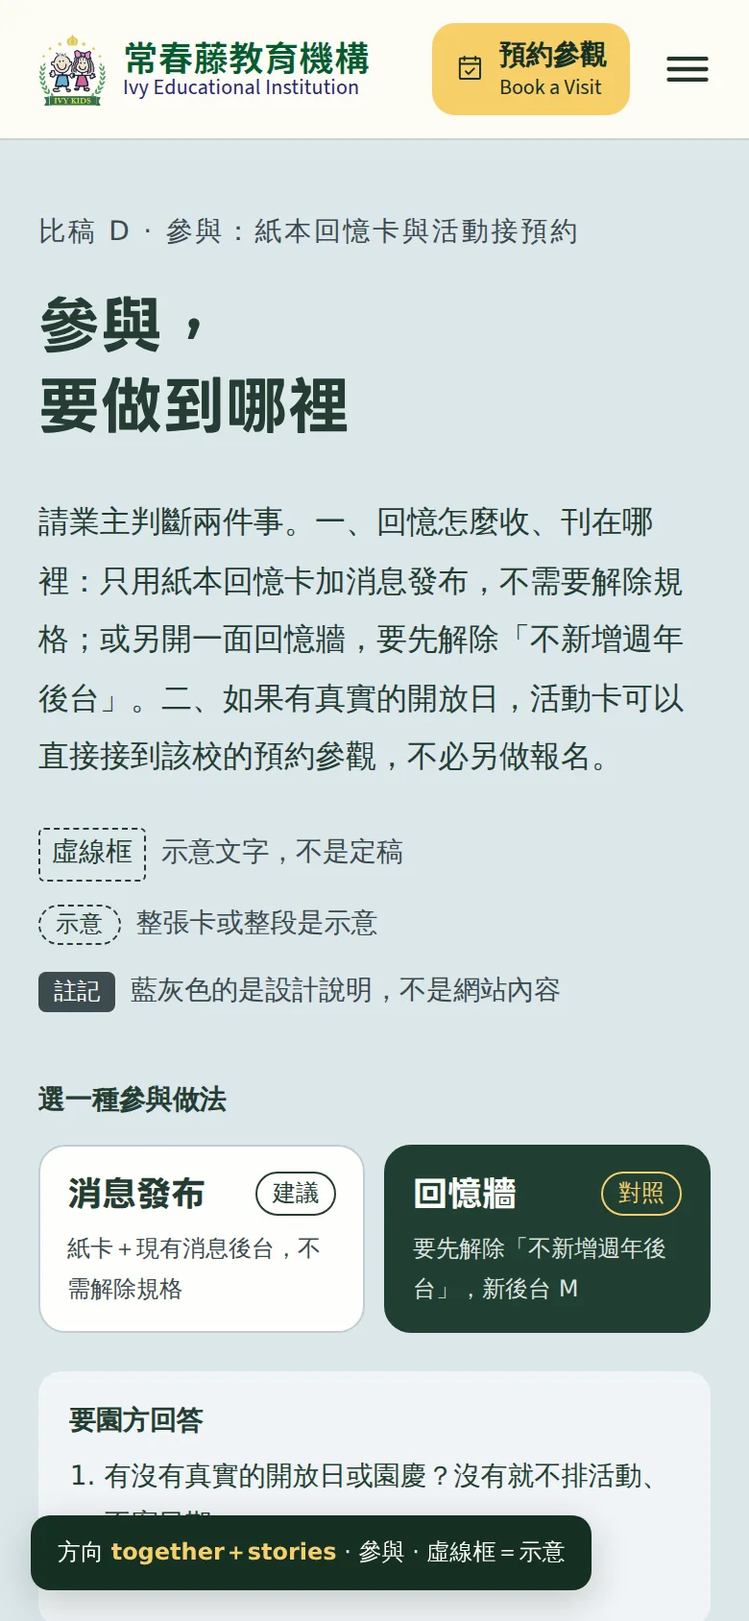
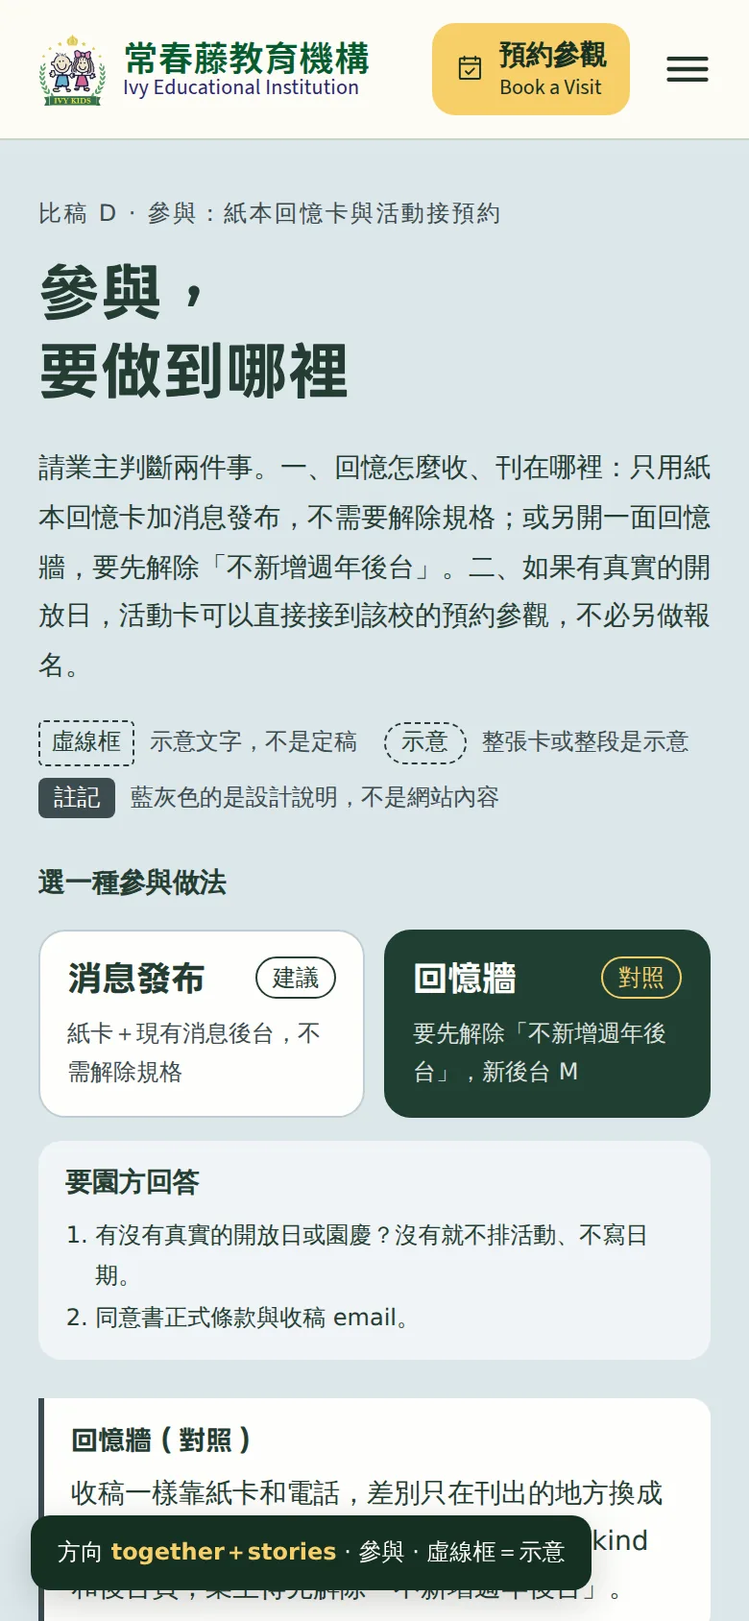
wip(design): 30 週年 mock D／E 建置中快照（額度中斷前）
Claude-Session: https://claude.ai/code/session_01PHGW5a4vWQqf2AJpMiZ2oK

diff --git a/design/anniversary-website-directions-20260928/d-events-booking.html b/design/anniversary-website-directions-20260928/d-events-booking.html
@@ -4,7 +4,7 @@
 <meta charset="utf-8">
 <meta name="viewport" content="width=device-width, initial-scale=1">
 <title>回憶卡與活動預約</title>
-<meta name="description" content="30 週年比稿 D：參與要做到哪裡——紙本回憶卡加消息發布，或另開一面回憶牆；真實開放日直接接回該校的預約參觀。">
+<meta name="description" content="週年比稿 D：參與要做到哪裡——紙本回憶卡加消息發布，或另開一面回憶牆；真實開放日直接接回該校的預約參觀。">
 <script>
   // 依 ?v= 決定畫哪一種參與做法；沒帶或帶錯就用建議的「消息發布」（news）。
   (function () {
@@ -117,12 +117,11 @@
         <details class="notes">
           <summary>現行限制與建議做法</summary>
           <dl class="note-list">
-            <div><dt>現行</dt><dd>活動只有一個 <code>link_url</code>，只收 http(s) 絕對網址（backend <code>schemas.py:731-734</code>），指不到站內的 <code>/visit/minghua</code>，卡上只能放「活動詳情 ↗」。</dd></div>
-            <div><dt>建議</dt><dd>活動加 <code>visit_campus_key</code>（空白或五校 key 之一；JSON 欄位，不需 migration，要重產契約）。卡內直接放既有 <code>BookingCta</code>，依該校的預約模式自動變成表單、LINE、電話或暫停；這裡畫的是表單模式。</dd></div>
-            <div><dt>字句</dt><dd>主按鈕沿用分校頁的「預約參觀{校名}」（<code>CampusPageMain.vue:24</code>）；次按鈕沿用預約頁的「致電{校名}」（<code>VisitForm.vue:388</code>）。</dd></div>
-            <div><dt>語意</dt><dd>送出只叫「已收到需求」，人工確認時段是「待確認」，園方確認後才叫「預約成立」。不做 RSVP、報名、付款，活動卡上也不收家長的聯絡方式。</dd></div>
-            <div><dt>追蹤</dt><dd>外層 <code>data-cta-entry</code> 設為 <code>anniversary</code>，要一起改 web（<code>cta-analytics.ts:10-28</code>）、backend（<code>operations/models.py:39-57</code>）、admin（<code>labels.ts:883</code>）三處。</dd></div>
-            <div><dt>工時</dt><dd>S，約 1 人日。只在園方確認有真實開放日時才做；在那之前，活動只列時間、地點和「洽各校」電話。沒有真活動就不排、不寫日期、不倒數。</dd></div>
+            <div><dt>現行</dt><dd><code>link_url</code> 只收 http(s) 絕對網址（<code>schemas.py:731-734</code>），指不到站內 <code>/visit/minghua</code>，只能放「活動詳情 ↗」。</dd></div>
+            <div><dt>建議</dt><dd>活動加 <code>visit_campus_key</code>（JSON 欄位，不需 migration），卡內放既有 <code>BookingCta</code>，依該校預約模式變成表單、LINE、電話或暫停。</dd></div>
+            <div><dt>字句</dt><dd>按鈕沿用分校頁的「預約參觀{校名}」和預約頁的「致電{校名}」。</dd></div>
+            <div><dt>語意</dt><dd>送出只叫「已收到需求」，園方確認後才叫「預約成立」。不做 RSVP、報名、付款。</dd></div>
+            <div><dt>工時</dt><dd>S，約 1 人日（含 CTA 入口 <code>anniversary</code> 三處、重產契約）。沒有真實開放日就不做、不排、不寫日期。</dd></div>
           </dl>
         </details>
       </div>
@@ -146,7 +145,7 @@
                 <figcaption><span class="ph">封面：回憶卡印好後拍實物照，這裡先用插圖代替</span><span class="tag">示意</span></figcaption>
               </figure>
               <div class="hn-body">
-                <p class="hn-body-lead"><span class="ph">在常春藤度過一段日子的孩子、陪孩子來上學的家長、在這裡教過書的老師，都歡迎把記得的事告訴我們。</span></p>
+                <p class="ph hn-body-lead">在常春藤度過一段日子的孩子、陪孩子來上學的家長、在這裡教過書的老師，都歡迎把記得的事告訴我們。</p>
                 <h3><span class="ph">兩種參與方式</span></h3>
                 <ol class="ways">
                   <li>
@@ -155,7 +154,7 @@
                   </li>
                   <li>
                     <p class="way-title"><svg class="icon" aria-hidden="true" focusable="false"><use href="#i-phone" /></svg><b class="ph">打電話請老師記下來</b></p>
-                    <p><span class="ph">打到任一校，老師把你說的記在回憶卡上，再念一次給你確認。</span></p>
+                    <p class="ph">打到任一校，老師把你說的記在回憶卡上，再念一次給你確認。</p>
                   </li>
                 </ol>
                 <h3><span class="ph">五校電話</span></h3>
@@ -166,13 +165,13 @@
                   <li><a href="tel:07-370-8001"><img src="../../web/public/assets/responsive/tour-international-gate-3425c482c253-480.webp" width="480" height="300" alt=""><span class="tel-who"><b>國際校</b><small>鳥松區</small></span><span class="tel-num"><span class="sr-only">撥打電話 </span>07-370-8001</span><svg class="icon" aria-hidden="true" focusable="false"><use href="#i-phone" /></svg></a></li>
                   <li><a href="tel:07-375-7081"><img src="../../web/public/assets/responsive/tour-renwu-exterior-f5fe711defdc-480.webp" width="480" height="300" alt=""><span class="tel-who"><b>仁武校</b><small>仁武區</small></span><span class="tel-num"><span class="sr-only">撥打電話 </span>07-375-7081</span><svg class="icon" aria-hidden="true" focusable="false"><use href="#i-phone" /></svg></a></li>
                 </ul>
-                <p class="mail"><svg class="icon" aria-hidden="true" focusable="false"><use href="#i-envelope-simple" /></svg><span>或寄 email 到 <span class="blank" aria-label="待園方提供的 email"></span>（園方提供）<span class="tag">示意</span></span></p>
+                <p class="mail"><svg class="icon" aria-hidden="true" focusable="false"><use href="#i-envelope-simple" /></svg><span>或寄 email 到 <span class="blank" aria-hidden="true"></span><span class="sr-only">（空白）</span><span class="nw">（園方提供）</span><span class="tag">示意</span></span></p>
                 <div class="privacy">
                   <h3><span class="ph">隱私與撤下</span></h3>
-                  <ul>
-                    <li><span class="ph">回憶卡背面就是同意書，交回前請勾選。</span></li>
-                    <li><span class="ph">署名可以只寫稱謂，也可以選擇不放照片。</span></li>
-                    <li><span class="ph">刊出後想撤下，打電話給交卡的那一校。</span></li>
+                  <ul class="ph">
+                    <li>回憶卡背面就是同意書，交回前請勾選。</li>
+                    <li>署名可以只寫稱謂，也可以選擇不放照片。</li>
+                    <li>刊出後想撤下，打電話給交卡的那一校。</li>
                   </ul>
                   <p class="privacy-tag"><span class="tag">正式條款待園方提供，示意</span></p>
                 </div>
@@ -187,11 +186,11 @@
         <details class="notes">
           <summary>現在就能發，兩處要小改</summary>
           <dl class="note-list">
-            <div><dt>後台</dt><dd>消息分類是自由文字，填系列名（示意「常春藤的故事」）；<code>show_from</code> 依台北日期自動上架，不填 <code>show_until</code>。小編（EDITOR）只能送審。</dd></div>
-            <div><dt>管道</dt><dd>收稿只有三種：紙卡、五校各自的電話、園方提供的一個 email。不用義華的 LINE／FB（其他四校沒有，不能拿義華的代填）。</dd></div>
-            <div><dt>撥號列</dt><dd>消息內文的連結區塊只放行 http／https（<code>news-content.ts:84-87</code>），寫不出 <code>tel:</code>。要整列可點撥號，需要 web 小改（例如依分類在單篇頁自動帶五校電話）；不改就用純文字電話發，內容一樣。</dd></div>
-            <div><dt>縮圖</dt><dd>五列縮圖是各校現況照（校園探索素材），只幫家長認出「是哪一校」，不當回憶照片。</dd></div>
-            <div><dt>隱私</dt><dd>網站只放摘要，全文印在卡背，要園方定稿。EXIF／GPS 剝除上線之前，不收家長或校友的手機照片。</dd></div>
+            <div><dt>後台</dt><dd>分類填系列名（示意），<code>show_from</code> 依台北日期自動上架，不填 <code>show_until</code>。</dd></div>
+            <div><dt>管道</dt><dd>只收紙卡、五校各自的電話、園方提供的一個 email；不用義華的 LINE／FB。</dd></div>
+            <div><dt>撥號</dt><dd>內文連結只放行 http(s)（<code>news-content.ts:84-87</code>），整列可撥號要 web 小改；不改就用純文字電話發。</dd></div>
+            <div><dt>縮圖</dt><dd>各校現況照，只幫家長認出是哪一校，不當回憶照片。</dd></div>
+            <div><dt>隱私</dt><dd>網站放摘要、全文印在卡背。EXIF／GPS 剝除上線前，不收手機照片。</dd></div>
           </dl>
         </details>
       </div>
@@ -209,7 +208,7 @@
                 <div class="mc-head">
                   <svg class="mc-crest" viewBox="30 26 124 132" aria-hidden="true" focusable="false"><image href="../../web/public/assets/logo.webp" width="552" height="192" filter="url(#logo-colour-cutout)" /></svg>
                   <div class="mc-name"><p class="mc-title">常春藤回憶卡</p><p class="mc-motto">孩子的第一所學校，也是第二個家。</p></div>
-                  <p class="mc-no" lang="en">No.<span class="blank-s" aria-label="編號空白"></span></p>
+                  <p class="mc-no" lang="en">No.<span class="blank-s" aria-hidden="true"></span><span class="sr-only">（空白）</span></p>
                 </div>
                 <p class="mc-q"><span class="ph">你記得常春藤的哪一個角落？</span></p>
                 <div class="mc-lines" aria-hidden="true"><i></i><i></i><i></i><i></i></div>
@@ -221,14 +220,14 @@
               <div class="mc-face mc-back">
                 <div class="mc-head mc-head-back">
                   <p class="mc-title">同意書</p>
-                  <p class="mc-no" lang="en">No.<span class="blank-s" aria-label="編號空白"></span></p>
+                  <p class="mc-no" lang="en">No.<span class="blank-s" aria-hidden="true"></span><span class="sr-only">（空白）</span></p>
                 </div>
                 <dl class="mc-consent">
                   <div><dt>署名</dt><dd><span class="bx" aria-hidden="true"></span>寫我的名字<span class="bx" aria-hidden="true"></span>只寫稱謂</dd></div>
                   <div><dt>照片</dt><dd><span class="bx" aria-hidden="true"></span>放照片<span class="bx" aria-hidden="true"></span>不放照片</dd></div>
                   <div><dt>刊登</dt><dd><span class="bx" aria-hidden="true"></span>同意刊在官網</dd></div>
                   <div><dt>簽名</dt><dd class="sign"><span>簽名<span class="line" aria-hidden="true"></span></span><span>法定代理人簽名<span class="line" aria-hidden="true"></span></span></dd></div>
-                  <div><dt>編號</dt><dd>同意書編號 <span lang="en">No.</span><span class="blank-s" aria-label="編號空白"></span></dd></div>
+                  <div><dt>編號</dt><dd>同意書編號 <span lang="en">No.</span><span class="blank-s" aria-hidden="true"></span><span class="sr-only">（空白）</span></dd></div>
                 </dl>
                 <p class="mc-foot">刊出後想撤下，打電話給交卡的那一校。</p>
               </div>
@@ -260,20 +259,20 @@
               <h2 id="z4n-title" class="art-title"><span class="ph">明華校的回憶選輯</span></h2>
               <img class="np-cover" src="../../web/public/assets/responsive/tour-minghua-plaza-8a1a4737ba49-800.webp" srcset="../../web/public/assets/responsive/tour-minghua-plaza-8a1a4737ba49-480.webp 480w, ../../web/public/assets/responsive/tour-minghua-plaza-8a1a4737ba49-800.webp 800w, ../../web/public/assets/responsive/tour-minghua-plaza-8a1a4737ba49-1200.webp 1200w" sizes="(max-width: 760px) 100vw, 760px" width="1200" height="750" alt="紅磚校舍旁的戶外廣場，青綠色地面，角落有溜滑梯和一排兒童小汽車">
               <div class="hn-body">
-                <p class="hn-body-lead"><span class="ph">這一篇收的是明華校校友交回的回憶卡，每一則都經本人確認，只校對錯字。</span></p>
+                <p class="ph hn-body-lead">這一篇收的是明華校校友交回的回憶卡，每一則都經本人確認，只校對錯字。</p>
                 <blockquote class="memo">
-                  <p><span class="ph">（回憶卡上的原句。只校對錯字，不改寫、不代寫。）</span></p>
+                  <p class="ph">（回憶卡上的原句。只校對錯字，不改寫、不代寫。）</p>
                   <footer><span class="ph">— ○○ 年從明華校畢業的校友</span></footer>
                 </blockquote>
                 <blockquote class="memo">
-                  <p><span class="ph">（電話口述的版本：老師記下後念給本人確認，照確認後的字句刊出。）</span></p>
+                  <p class="ph">（電話口述的版本：老師記下後念給本人確認，照確認後的字句刊出。）</p>
                   <footer><span class="ph">— ○○ 年從明華校畢業的校友</span></footer>
                 </blockquote>
                 <blockquote class="memo">
                   <p><span class="ph">（很短也可以，一個角落、一首歌都算。）</span></p>
                   <footer><span class="ph">— ○○ 年從明華校畢業的校友</span></footer>
                 </blockquote>
-                <p><span class="ph">想分享你的回憶，可以到任一校櫃台拿一張回憶卡，或打電話請老師記下來。</span></p>
+                <p class="ph">想分享你的回憶，可以到任一校櫃台拿一張回憶卡，或打電話請老師記下來。</p>
               </div>
             </article>
             <div class="np-article-foot">
@@ -285,11 +284,11 @@
         <details class="notes">
           <summary>一篇 3–5 則，用分校消息發</summary>
           <dl class="note-list">
-            <div><dt>篇幅</dt><dd>同一校 3–5 則一篇，署名照卡背勾選（名字或稱謂）。分校消息一律不是示意，可以先上。</dd></div>
-            <div><dt>紀律</dt><dd>只校對錯字，不改寫、不代寫引言；個人回憶不寫成機構史實，也不寫畢業生數、師生數。</dd></div>
-            <div><dt>引言</dt><dd>消息內文目前只有段落、小標、清單、素材圖、連結五種區塊（<code>NewsBody.vue:14-27</code>），沒有引言。要 blockquote 樣式需 web 小改；不改就用「段落＋署名段落」發，內容一樣。</dd></div>
-            <div><dt>封面</dt><dd>明華校現況照（<code>tour-minghua-plaza</code>），不是當年照片。不用 <code>*-enhanced-v1</code>、線稿、建築透視圖，<code>env-space-*</code> 沒標校別也不行。</dd></div>
-            <div><dt>文末</dt><dd>沿用單篇頁既有的「回明華校的消息」與「預約明華校參觀」（<code>NewsArticleContent.vue:26-27</code>）。</dd></div>
+            <div><dt>篇幅</dt><dd>同一校 3–5 則一篇，署名照卡背勾選。分校消息不會被標成示意，可以先上。</dd></div>
+            <div><dt>紀律</dt><dd>只校錯字，不改寫、不代寫引言；個人回憶不寫成機構史實。</dd></div>
+            <div><dt>引言</dt><dd>內文沒有引言區塊（<code>NewsBody.vue:14-27</code>），blockquote 樣式要 web 小改；不改就用「段落＋署名」發。</dd></div>
+            <div><dt>封面</dt><dd>明華校現況照，不是當年照片；不用 <code>*-enhanced-v1</code>、線稿、透視圖。</dd></div>
+            <div><dt>文末</dt><dd>沿用單篇頁既有的兩個連結（<code>NewsArticleContent.vue:26-27</code>）。</dd></div>
           </dl>
         </details>
       </div>
@@ -325,12 +324,12 @@
             </div>
             <ul class="wall-list">
               <li class="wcard" data-role="alumni" data-campus="yihua"><p class="wc-meta"><span class="wc-campus">義華校</span><span>校友</span></p><blockquote><p><span class="ph">（回憶卡上的原句，一兩行也可以。）</span></p></blockquote><p class="wc-by"><span class="ph">— ○○ 年從義華校畢業的校友</span></p></li>
-              <li class="wcard" data-role="parent" data-campus="minghua"><p class="wc-meta"><span class="wc-campus">明華校</span><span>家長</span></p><blockquote><p><span class="ph">（家長寫的回憶。署名照卡背勾選，可以只寫稱謂。）</span></p></blockquote><p class="wc-by"><span class="ph">— 孩子曾在明華校就讀的家長</span></p></li>
-              <li class="wcard" data-role="teacher" data-campus="chongde"><p class="wc-meta"><span class="wc-campus">崇德校</span><span>老師</span></p><blockquote><p><span class="ph">（在這裡教過書的老師，寫下記得的一個畫面。刊出前由本人確認字句，照片依卡背勾選。）</span></p></blockquote><p class="wc-by"><span class="ph">— 曾在崇德校任教的老師</span></p></li>
+              <li class="wcard" data-role="parent" data-campus="minghua"><p class="wc-meta"><span class="wc-campus">明華校</span><span>家長</span></p><blockquote><p class="ph">（家長寫的回憶。署名照卡背勾選，可以只寫稱謂。）</p></blockquote><p class="wc-by"><span class="ph">— 孩子曾在明華校就讀的家長</span></p></li>
+              <li class="wcard" data-role="teacher" data-campus="chongde"><p class="wc-meta"><span class="wc-campus">崇德校</span><span>老師</span></p><blockquote><p class="ph">（在這裡教過書的老師，寫下記得的一個畫面，刊出前由本人確認。）</p></blockquote><p class="wc-by"><span class="ph">— 曾在崇德校任教的老師</span></p></li>
               <li class="wcard" data-role="parent" data-campus="international"><p class="wc-meta"><span class="wc-campus">國際校</span><span>家長</span></p><blockquote><p><span class="ph">（短短一句。）</span></p></blockquote><p class="wc-by"><span class="ph">— 孩子在國際校就讀的家長</span></p></li>
-              <li class="wcard" data-role="alumni" data-campus="minghua"><p class="wc-meta"><span class="wc-campus">明華校</span><span>校友</span></p><blockquote><p><span class="ph">（電話口述的版本：老師記下後念給本人確認，照確認後的字句刊出。）</span></p></blockquote><p class="wc-by"><span class="ph">— ○○ 年從明華校畢業的校友</span></p></li>
-              <li class="wcard" data-role="parent" data-campus="yihua"><p class="wc-meta"><span class="wc-campus">義華校</span><span>家長</span></p><blockquote><p><span class="ph">（二代生家庭：自己小時候讀過常春藤，現在孩子也在這裡。）</span></p></blockquote><p class="wc-by"><span class="ph">— ○○ 年從義華校畢業、孩子也在義華校的家長</span></p></li>
-              <li class="wcard" data-role="alumni" data-campus="chongde"><p class="wc-meta"><span class="wc-campus">崇德校</span><span>校友</span></p><blockquote><p><span class="ph">（較長的一則回憶，大約四、五行。卡片高度跟著內容走，不裁切、不加「看更多」，讓每一則都能完整讀完。）</span></p></blockquote><p class="wc-by"><span class="ph">— ○○ 年從崇德校畢業的校友</span></p></li>
+              <li class="wcard" data-role="alumni" data-campus="minghua"><p class="wc-meta"><span class="wc-campus">明華校</span><span>校友</span></p><blockquote><p class="ph">（電話口述的版本：老師記下後念給本人確認，照確認後的字句刊出。）</p></blockquote><p class="wc-by"><span class="ph">— ○○ 年從明華校畢業的校友</span></p></li>
+              <li class="wcard" data-role="parent" data-campus="yihua"><p class="wc-meta"><span class="wc-campus">義華校</span><span>家長</span></p><blockquote><p class="ph">（二代生家庭：自己小時候讀過常春藤，現在孩子也在這裡。）</p></blockquote><p class="wc-by"><span class="ph">— ○○ 年從義華校畢業、孩子也在義華校的家長</span></p></li>
+              <li class="wcard" data-role="alumni" data-campus="chongde"><p class="wc-meta"><span class="wc-campus">崇德校</span><span>校友</span></p><blockquote><p class="ph">（較長的一則，大約四、五行。卡片高度跟著內容走，不裁切，每一則都能讀完。）</p></blockquote><p class="wc-by"><span class="ph">— ○○ 年從崇德校畢業的校友</span></p></li>
               <li class="wcard" data-role="parent" data-campus="renwu"><p class="wc-meta"><span class="wc-campus">仁武校</span><span>家長</span></p><blockquote><p><span class="ph">（家長寫的回憶，不放照片。）</span></p></blockquote><p class="wc-by"><span class="ph">— 孩子在仁武校就讀的家長</span></p></li>
               <li class="wcard" data-role="teacher" data-campus="international"><p class="wc-meta"><span class="wc-campus">國際校</span><span>老師</span></p><blockquote><p><span class="ph">（老師的回憶，一段就好。）</span></p></blockquote><p class="wc-by"><span class="ph">— 曾在國際校任教的老師</span></p></li>
             </ul>

diff --git a/design/anniversary-website-directions-20260928/d-events-booking.css b/design/anniversary-website-directions-20260928/d-events-booking.css
@@ -22,12 +22,15 @@ html[data-v="wall"] [data-only="news"] { display: none !important; }
 .skip-link:focus { top: 12px; }
 .site-nav a { min-height: 44px; align-content: center; }
 .site-head .brand { min-height: 44px; }
+.site-menu { flex: none; }  /* 320px 時共用頁首的選單鈕被壓到 38px，補回 44px */
 .d-sprite { position: absolute; width: 0; height: 0; overflow: hidden; }
 a:focus-visible, button:focus-visible, summary:focus-visible, select:focus-visible { outline: 3px solid var(--leaf); outline-offset: 4px; }
+.nw { white-space: nowrap; }
 code { padding: 1px 5px; border-radius: 4px; background: rgb(var(--ink) / .07); font: .86em/1.5 var(--font-code); overflow-wrap: anywhere; }
 
 /* 示意：虛線框（行內）＋虛線小膠囊 */
-.ph { outline: 1px dashed currentColor; outline-offset: 3px; border-radius: 3px; }
+.ph { outline: 1px dashed rgb(var(--ink) / .55); outline-offset: 3px; border-radius: 3px; }
+p.ph, ul.ph { outline-offset: 5px; }
 .tag { display: inline-flex; align-items: center; margin-left: 8px; padding: 0 8px; border: 1px dashed currentColor; border-radius: 999px; font: 400 var(--fs-xs)/1.6 var(--font); letter-spacing: .03em; white-space: nowrap; vertical-align: 2px; }
 
 /* ── ⓪ 說明帶 ──────────────────────────────────────────────── */
@@ -75,7 +78,7 @@ code { padding: 1px 5px; border-radius: 4px; background: rgb(var(--ink) / .07); 
 
 .np .z-h { font-size: var(--fs-3xl); line-height: 1.4; color: var(--ivy-news-green); }
 .np-crumb { display: flex; flex-wrap: wrap; align-items: center; gap: 10px; font-size: var(--fs-sm); color: var(--ivy-news-muted); }
-.np-crumb a { display: inline-flex; align-items: center; min-height: 44px; color: inherit; text-decoration: underline; text-underline-offset: 4px; text-decoration-thickness: 1px; }
+.np-crumb a { display: inline-flex; align-items: center; justify-content: center; min-width: 44px; min-height: 44px; color: inherit; text-decoration: underline; text-underline-offset: 4px; text-decoration-thickness: 1px; }
 .np-meta { display: flex; flex-wrap: wrap; justify-content: space-between; gap: 4px 16px; max-width: none; font-size: var(--fs-xs); letter-spacing: .025em; color: var(--ivy-news-muted); }
 .np-meta > span:first-child { font-weight: 600; color: var(--ivy-news-green); }
 
@@ -152,7 +155,7 @@ code { padding: 1px 5px; border-radius: 4px; background: rgb(var(--ink) / .07); 
 .blank { display: inline-block; width: 7em; height: 1.2em; margin: 0 4px; border-bottom: 1px dashed currentColor; vertical-align: -2px; }
 .privacy { margin-top: 28px !important; padding: 4px 22px 20px; border-radius: 12px; background: var(--ivy-news-note); }
 .privacy h3 { margin-top: 16px; font-size: var(--fs-lg); }
-.privacy ul { margin: 10px 0 0; padding-left: 1.3em; font-size: var(--fs-sm); line-height: 1.9; }
+.privacy ul { margin: 12px 0 0; padding-left: 1.3em; font-size: var(--fs-sm); line-height: 1.9; }
 .privacy li + li { margin-top: 6px; }
 .privacy-tag { margin-top: 12px; }
 .privacy-tag .tag { margin-left: 0; color: var(--ivy-news-muted); }
@@ -257,19 +260,50 @@ code { padding: 1px 5px; border-radius: 4px; background: rgb(var(--ink) / .07); 
   .notes { position: static; }
 }
 @media (max-width: 760px) {
-  .intro { padding: 36px 0 28px; }
+  .intro { padding: 28px 0 24px; }
+  .intro-kicker { margin-bottom: 10px; font-size: var(--fs-xs); }
   .intro h1 { font-size: var(--fs-4xl); }
-  .intro-lede { font-size: var(--fs-md); }
-  .switch a { min-height: 88px; padding: 12px 14px; }
-  .state-line { padding: 12px 16px; font-size: var(--fs-sm); }
-  .np { padding-bottom: 80px; }
-  .zone { padding-top: 52px; }
+  .intro-lede { margin-top: 16px; font-size: var(--fs-sm); line-height: 1.85; }
+  .legend { gap: 6px 14px; margin-top: 14px; font-size: var(--fs-xs); }
+  .intro-grid { gap: 22px; }
+  .switch a { min-height: 84px; padding: 12px 14px; }
+  .asks { margin-top: 12px; padding: 10px 14px; }
+  .asks ol { font-size: var(--fs-xs); }
+  .state-line { margin-top: 20px; padding: 10px 14px; font-size: var(--fs-sm); line-height: 1.75; }
+  .np { padding-bottom: 64px; }
+  .zone { padding-top: 44px; }
+  .zone-tag { margin-bottom: 16px; font-size: var(--fs-xs); }
+  .np-article { margin-top: 8px; }
+  .art-title { margin-top: 8px; }
+  .cover-slot, .np-cover { margin-top: 20px; }
+  .cover-slot { padding: 20px 0 14px; }
+  .cover-slot figcaption { margin-top: 12px; }
+  .hn-body { margin-top: 20px; }
+  .hn-body h3 { margin-top: 24px; font-size: var(--fs-lg); }
+  .hn-body-lead { font-size: var(--fs-md); }
+  .ways li { padding: 12px 14px; }
+  .np-article-foot { margin-top: 32px; padding-top: 16px; }
+  .memo { margin-top: 16px; padding-left: 16px; }
+  .memo p { font-size: var(--fs-md); line-height: 1.8; }
+  .gate-banner { margin-bottom: 20px; padding: 12px 14px; }
+  .wall-lede { font-size: var(--fs-md); }
+  .wall-filter { margin-top: 16px; padding-bottom: 16px; }
+  .wall-list { margin-top: 16px; }
+  .wcard { margin-bottom: 10px; padding: 12px 14px; }
+  .wcard blockquote { margin-top: 8px; }
+  .wcard blockquote p { font-size: var(--fs-sm); line-height: 1.8; }
+  .wc-by { margin-top: 6px; }
+  .flow li { padding: 12px 14px 14px; }
+  .fl-no { display: none; }
+  .flow h3 { margin-top: 0; font-size: var(--fs-md); }
+  .flow li > p:not(.fl-no) { margin-top: 4px; }
+  .undo, .nope { padding: 10px 12px; }
   .np .z-h { font-size: var(--fs-2xl); }
   .np-event { grid-template-columns: 48px minmax(0, 1fr); gap: 14px; padding: 18px; }
   .ev-actions { flex-direction: column; }
   .ev-actions .button { width: 100%; min-height: 52px; }
   .ways { grid-template-columns: 1fr; }
-  .tels a { grid-template-columns: 52px minmax(0, 1fr) auto; gap: 0 12px; min-height: 60px; padding-right: 4px; }
+  .tels a { grid-template-columns: 52px minmax(0, 1fr) auto; gap: 0 12px; min-height: 56px; padding: 6px 4px 6px 0; }
   .tels img { width: 52px; height: 38px; }
   .tels .icon { display: none; }
   .tel-who { flex-direction: column; gap: 0; }
